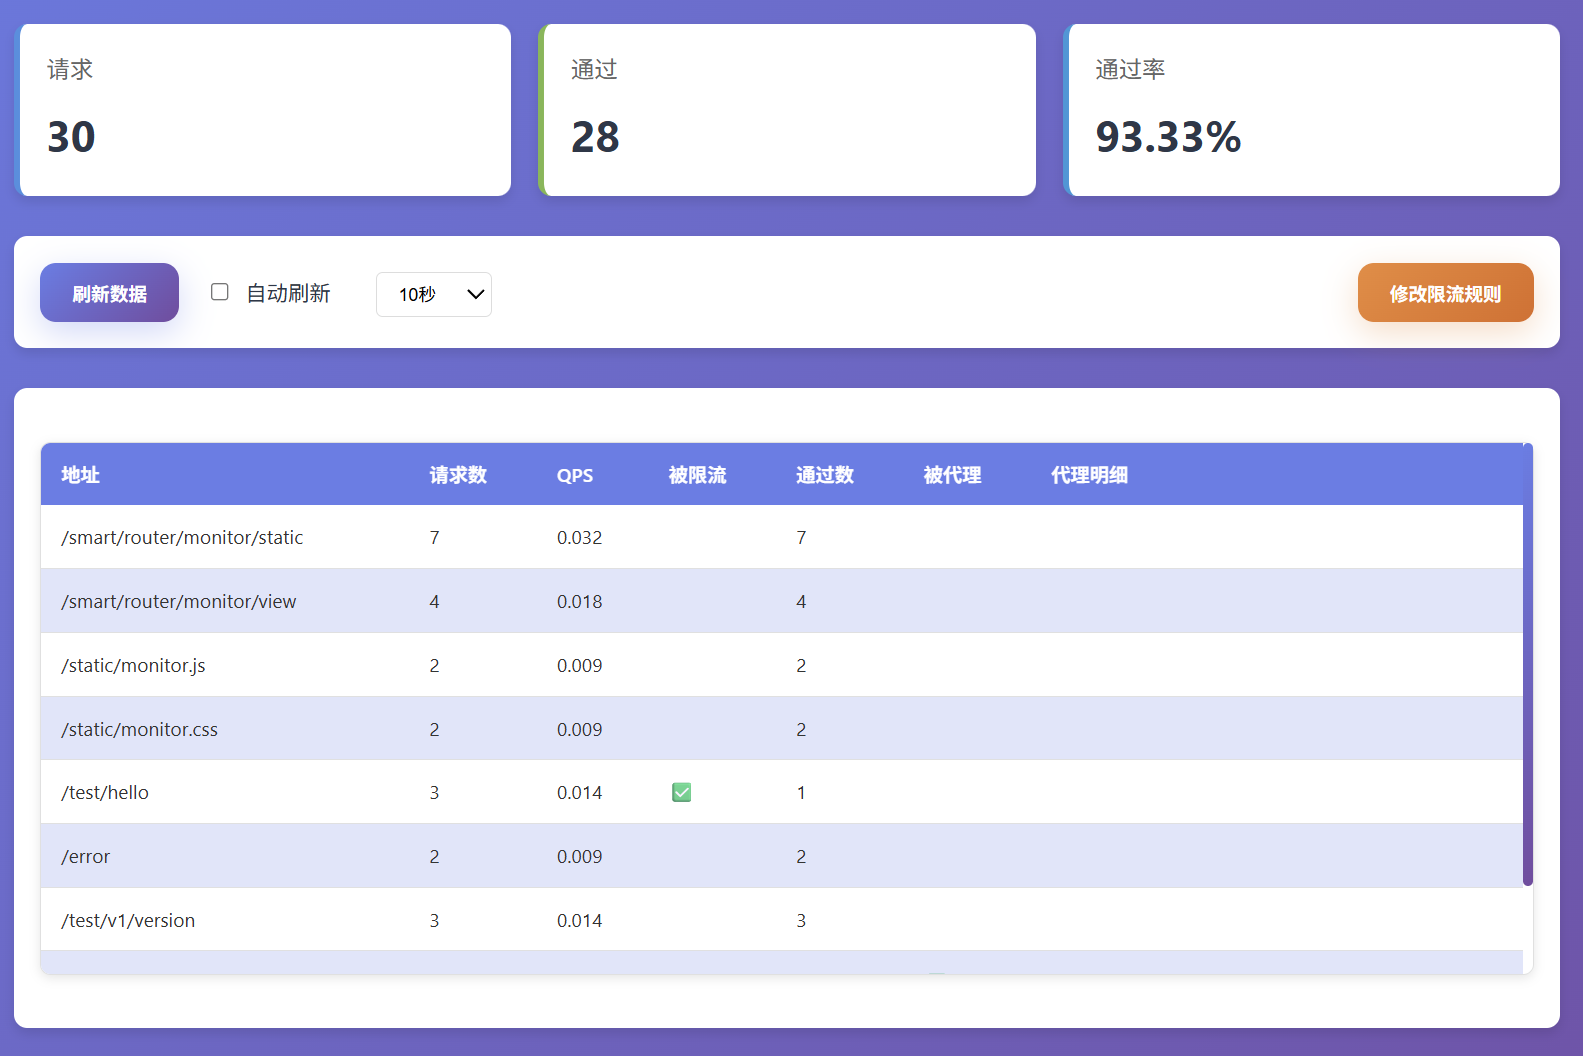
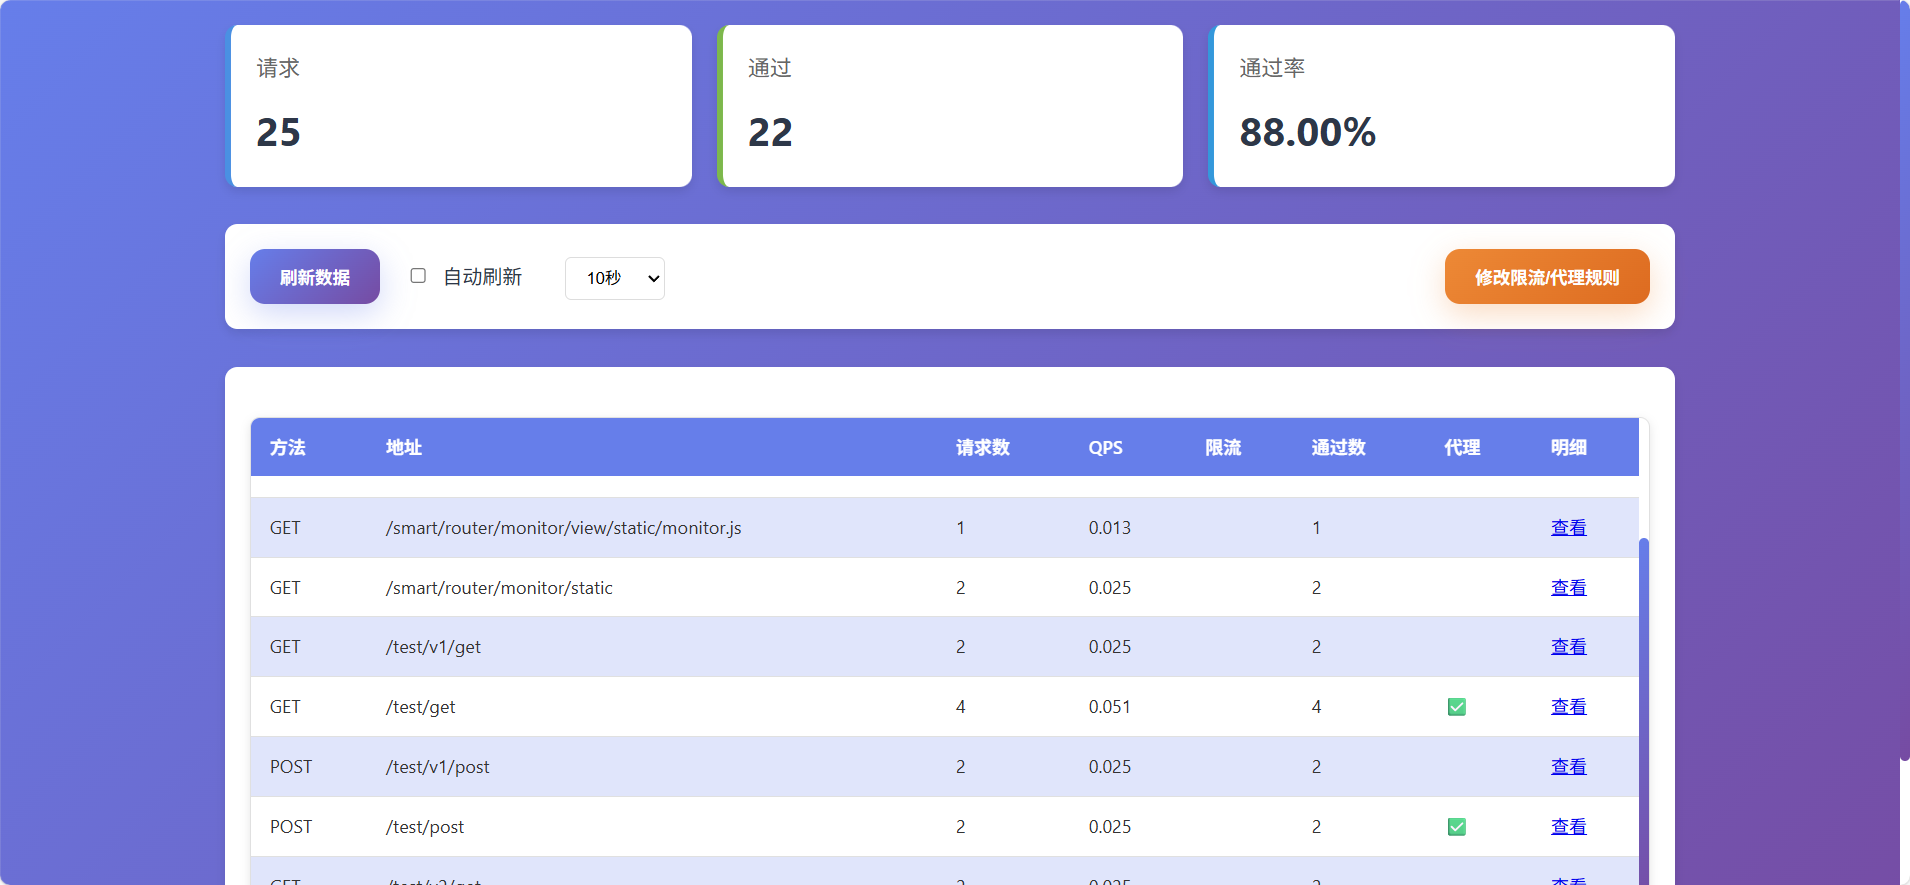
feat(monitor): 添加运行时动态修改限流代理配置功能
- 实现获取当前限流、代理配置的API接口
- 提供完整的配置规则展示功能
- 在监控页面中添加配置查看和调整功能
- 更新应用配置中的权重设置从5到10
- 统一生产环境和测试环境的配置变更

diff --git a/README.zh-CN.md b/README.zh-CN.md
@@ -128,11 +128,64 @@ smart-router:
       masterName: mymaster       # 主节点名称
 ```
 
-## 监控功能
+## 运行时动态修改限流、代理配置
+获取当前限流、代理配置
+```http request
+GET http://localhost:8080/smart/router/monitor/rules
+Accept: application/json
+```
+
+```json
+{
+    "rateLimitRules": [  //限流规则
+        {
+            "endpoint": "/test/hello",
+            "capacity": 1,
+            "period": 10,
+            "unit": "SECONDS"
+        }
+    ],
+    "proxyRules": [  //代理规则
+        {
+            "endpoint": "/test/get",
+            "proxies": [
+                {
+                    "targetEndpoint": "/test/v1/get",
+                    "weight": 5,
+                    "mapRule": "#params.put('flagv1',#params.get('flag'))",
+                    "bodyRule": null
+                },
+                {
+                    "targetEndpoint": "/test/v2/get",
+                    "weight": 5,
+                    "mapRule": "#params.put('flagv2',#params.get('flag'))",
+                    "bodyRule": null
+                }
+            ]
+        },
+        {
+            "endpoint": "/test/post",
+            "proxies": [
+                {
+                    "targetEndpoint": "/test/v1/post",
+                    "weight": 10,
+                    "mapRule": null,
+                    "bodyRule": "#params.put('value1','Hello')"
+                }
+            ]
+        }
+    ]
+}
+```
+
+## 监控页面
 
 项目提供了内置的监控页面，访问 `/smart/router/monitor/view` 查看监控页面
 ![img.png](img.png)
 ![img_1.png](img_1.png)
+
+可以在页面中查看、调整限流配置、代理配置
+![img_2.png](img_2.png)
 
 
 ## 扩展性
